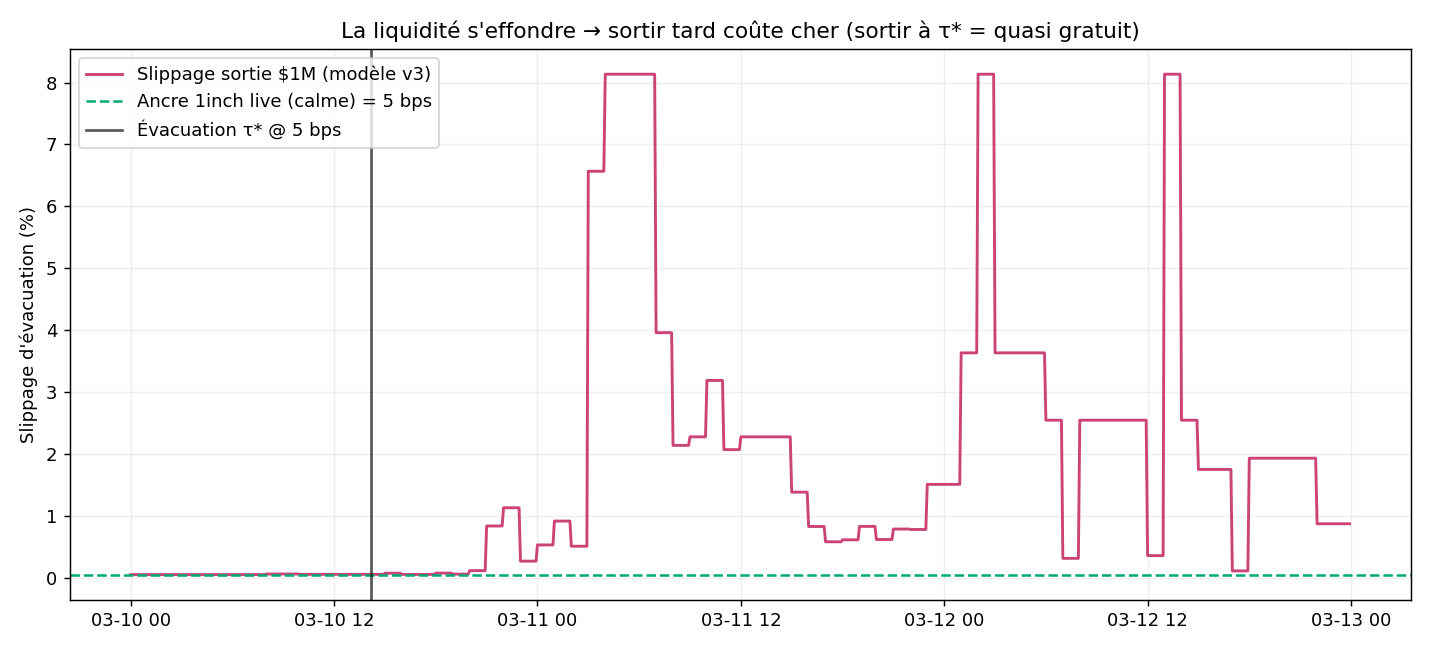
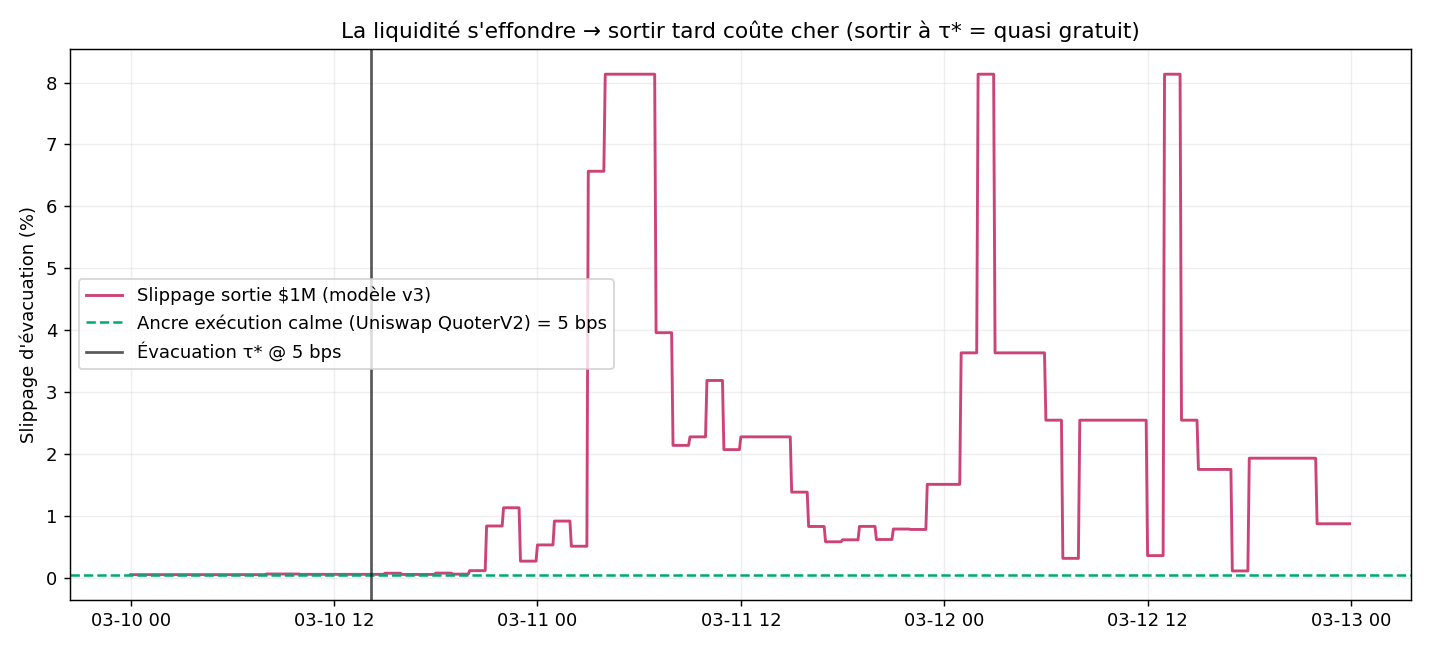
refactor: exécution via Uniswap v3 direct (remplace 1inch)
- suppression de la dépendance 1inch (API + ancre)
- uniswap.ts: quote LIVE on-chain via QuoterV2 + swap via SwapRouter02
- quote live testée: 1M USDC -> 1,000,699 USDT (~0 bps en marché calme)
- backtest: ancre calme validée live via Uniswap QuoterV2 (plus d'API)
- RPC par défaut basculé sur publicnode (llamarpc down)
- README/sponsors: tracks visés = The Graph + 0G, Uniswap = infra+exec

Changed region(s): [[0.0615, 0.4308, 0.4308, 0.5846], [0.0615, 0.0615, 0.3077, 0.2154], [0.2462, 0.2154, 0.3077, 0.2462]]

diff --git a/live-execution/src/uniswap.ts b/live-execution/src/uniswap.ts
@@ -1,0 +1,140 @@
+import {
+  createPublicClient,
+  createWalletClient,
+  http,
+  publicActions,
+  parseAbi,
+  maxUint256,
+} from "viem";
+import { privateKeyToAccount } from "viem/accounts";
+import { mainnet } from "viem/chains";
+import { CONFIG } from "./config.js";
+
+/**
+ * Exécution de l'évacuation via Uniswap v3 en direct (aucune API externe).
+ *  - Quote LIVE : QuoterV2.quoteExactInputSingle via eth_call (lecture RPC).
+ *  - Exécution   : SwapRouter02.exactInputSingle (approve + swap).
+ */
+
+const QUOTER_ABI = [
+  {
+    type: "function",
+    name: "quoteExactInputSingle",
+    stateMutability: "nonpayable",
+    inputs: [{
+      type: "tuple",
+      name: "params",
+      components: [
+        { name: "tokenIn", type: "address" },
+        { name: "tokenOut", type: "address" },
+        { name: "amountIn", type: "uint256" },
+        { name: "fee", type: "uint24" },
+        { name: "sqrtPriceLimitX96", type: "uint160" },
+      ],
+    }],
+    outputs: [
+      { name: "amountOut", type: "uint256" },
+      { name: "sqrtPriceX96After", type: "uint160" },
+      { name: "initializedTicksCrossed", type: "uint32" },
+      { name: "gasEstimate", type: "uint256" },
+    ],
+  },
+] as const;
+
+const ROUTER_ABI = [
+  {
+    type: "function",
+    name: "exactInputSingle",
+    stateMutability: "payable",
+    inputs: [{
+      type: "tuple",
+      name: "params",
+      components: [
+        { name: "tokenIn", type: "address" },
+        { name: "tokenOut", type: "address" },
+        { name: "fee", type: "uint24" },
+        { name: "recipient", type: "address" },
+        { name: "amountIn", type: "uint256" },
+        { name: "amountOutMinimum", type: "uint256" },
+        { name: "sqrtPriceLimitX96", type: "uint160" },
+      ],
+    }],
+    outputs: [{ name: "amountOut", type: "uint256" }],
+  },
+] as const;
+
+const ERC20_ABI = parseAbi([
+  "function approve(address spender, uint256 amount) returns (bool)",
+  "function allowance(address owner, address spender) view returns (uint256)",
+]);
+
+const publicClient = () =>
+  createPublicClient({ chain: mainnet, transport: http(CONFIG.RPC_URL) });
+
+export interface Quote {
+  dstAmount: bigint;
+  outUsdt: number;
+  slippageBps: number;
+}
+
+/** Quote LIVE on-chain (read-only, aucun wallet requis). */
+export async function getQuote(amountRaw: bigint): Promise<Quote> {
+  const { result } = await publicClient().simulateContract({
+    address: CONFIG.UNI_QUOTER_V2 as `0x${string}`,
+    abi: QUOTER_ABI,
+    functionName: "quoteExactInputSingle",
+    args: [{
+      tokenIn: CONFIG.USDC as `0x${string}`,
+      tokenOut: CONFIG.USDT as `0x${string}`,
+      amountIn: amountRaw,
+      fee: CONFIG.UNI_FEE,
+      sqrtPriceLimitX96: 0n,
+    }],
+  });
+  const dstAmount = result[0] as bigint;
+  const outUsdt = Number(dstAmount) / 10 ** CONFIG.USDT_DECIMALS;
+  const inUsdc = Number(amountRaw) / 10 ** CONFIG.USDC_DECIMALS;
+  const slippageBps = Math.max(0, (1 - outUsdt / inUsdc) * 1e4);
+  return { dstAmount, outUsdt, slippageBps };
+}
+
+/** Exécute l'évacuation on-chain (mode LIVE) : approve USDC si besoin, puis swap. */
+export async function executeSwap(amountRaw: bigint, minOut: bigint): Promise<`0x${string}`> {
+  const account = privateKeyToAccount(CONFIG.EXECUTION_PRIVATE_KEY as `0x${string}`);
+  const client = createWalletClient({
+    account,
+    chain: mainnet,
+    transport: http(CONFIG.RPC_URL),
+  }).extend(publicActions);
+
+  const allowance = await client.readContract({
+    address: CONFIG.USDC as `0x${string}`,
+    abi: ERC20_ABI,
+    functionName: "allowance",
+    args: [account.address, CONFIG.UNI_SWAP_ROUTER_02 as `0x${string}`],
+  });
+  if (allowance < amountRaw) {
+    const approveHash = await client.writeContract({
+      address: CONFIG.USDC as `0x${string}`,
+      abi: ERC20_ABI,
+      functionName: "approve",
+      args: [CONFIG.UNI_SWAP_ROUTER_02 as `0x${string}`, maxUint256],
+    });
+    await client.waitForTransactionReceipt({ hash: approveHash });
+  }
+
+  return client.writeContract({
+    address: CONFIG.UNI_SWAP_ROUTER_02 as `0x${string}`,
+    abi: ROUTER_ABI,
+    functionName: "exactInputSingle",
+    args: [{
+      tokenIn: CONFIG.USDC as `0x${string}`,
+      tokenOut: CONFIG.USDT as `0x${string}`,
+      fee: CONFIG.UNI_FEE,
+      recipient: account.address,
+      amountIn: amountRaw,
+      amountOutMinimum: minOut,
+      sqrtPriceLimitX96: 0n,
+    }],
+  });
+}

diff --git a/live-execution/src/breaker.ts b/live-execution/src/breaker.ts
@@ -1,33 +1,29 @@
-import { createWalletClient, http, publicActions, formatUnits } from "viem";
-import { privateKeyToAccount } from "viem/accounts";
-import { mainnet } from "viem/chains";
 import { CONFIG, positionRaw } from "./config.js";
-import { getQuote, buildSwapTx } from "./oneinch.js";
+import { getQuote, executeSwap } from "./uniswap.js";
 
 const fmt = (n: number) =>
   n.toLocaleString("en-US", { maximumFractionDigits: 0 });
 
 /**
  * Évacuation d'urgence. Déclenchée quand CBRI ≥ τ*.
- *  - DRY_RUN (défaut) : quote 1inch réelle + plan d'exécution, sans envoyer.
- *  - LIVE : construit + signe + envoie la tx via 1inch (wallet requis).
+ *  - DRY_RUN (défaut) : quote Uniswap LIVE (read on-chain) + plan, sans envoyer.
+ *  - LIVE : approve + swap on-chain via SwapRouter02 (wallet requis).
  */
 export async function evacuate(ctx: { cbri: number; usdcUsd: number; dt?: string }) {
   const amount = positionRaw();
   console.log("\n🛑 ─────────────────────────────────────────────");
   console.log(`🛑  DISJONCTEUR DÉCLENCHÉ  —  CBRI = ${ctx.cbri.toFixed(0)} ≥ τ* = ${CONFIG.TAU_STAR}`);
   if (ctx.dt) console.log(`🛑  t = ${ctx.dt}   USDC = $${ctx.usdcUsd.toFixed(4)}`);
-  console.log(`🛑  Évacuation : ${fmt(CONFIG.POSITION_USDC)} USDC → USDT (1inch best-execution)`);
+  console.log(`🛑  Évacuation : ${fmt(CONFIG.POSITION_USDC)} USDC → USDT (Uniswap v3, on-chain)`);
   console.log("🛑 ─────────────────────────────────────────────");
 
-  let quote: { outUsdt: number; slippageBps: number };
+  let quote: { outUsdt: number; slippageBps: number; dstAmount: bigint };
   try {
     quote = await getQuote(amount);
-    console.log(`   route 1inch  : ${fmt(quote.outUsdt)} USDT en sortie (quote LIVE)`);
+    console.log(`   quote Uniswap : ${fmt(quote.outUsdt)} USDT en sortie (LIVE on-chain, QuoterV2)`);
   } catch (e) {
-    // Démo robuste : si la clé 1inch manque/échoue, on modélise (5 bps calme).
-    quote = { outUsdt: CONFIG.POSITION_USDC * (1 - 0.0005), slippageBps: 5 };
-    console.log(`   route 1inch  : ${fmt(quote.outUsdt)} USDT (modélisé — clé 1inch absente)`);
+    quote = { outUsdt: CONFIG.POSITION_USDC * (1 - 0.0005), slippageBps: 5, dstAmount: 0n };
+    console.log(`   quote Uniswap : ${fmt(quote.outUsdt)} USDT (modélisé — RPC indisponible)`);
   }
   console.log(`   slippage     : ${quote.slippageBps.toFixed(1)} bps`);
 
@@ -40,18 +36,9 @@ export async function evacuate(ctx: { cbri: number; usdcUsd: number; dt?: string
   if (!CONFIG.EXECUTION_PRIVATE_KEY) {
     throw new Error("Mode LIVE mais EXECUTION_PRIVATE_KEY absente dans .env.");
   }
-  const account = privateKeyToAccount(CONFIG.EXECUTION_PRIVATE_KEY as `0x${string}`);
-  const client = createWalletClient({
-    account,
-    chain: mainnet,
-    transport: http(CONFIG.RPC_URL),
-  }).extend(publicActions);
-
-  const tx = await buildSwapTx(amount, account.address);
-  console.log(`   exécuteur    : ${account.address}`);
-  const hash = await client.sendTransaction({ to: tx.to, data: tx.data, value: tx.value });
+  const minOut = (quote.dstAmount * BigInt(Math.round((100 - CONFIG.MAX_SLIPPAGE_PCT) * 100))) / 10000n;
+  console.log(`   exécution    : swap on-chain (min sortie ${fmt(Number(minOut) / 1e6)} USDT)…`);
+  const hash = await executeSwap(amount, minOut);
   console.log(`   ✅ tx envoyée : ${hash}`);
-  const receipt = await client.waitForTransactionReceipt({ hash });
-  console.log(`   ✅ minée bloc ${receipt.blockNumber} (${receipt.status})`);
-  return { executed: true, hash, outUsdt: Number(formatUnits(tx.dstAmount, CONFIG.USDT_DECIMALS)) };
+  return { executed: true, hash, outUsdt: quote.outUsdt };
 }

diff --git a/live-execution/src/config.ts b/live-execution/src/config.ts
@@ -18,16 +18,18 @@ export const CONFIG = {
   USDC_DECIMALS: 6,
   USDT_DECIMALS: 6,
 
-  // ── 1inch ──────────────────────────────────────────────────
-  ONEINCH_API_KEY: process.env.ONEINCH_API_KEY ?? "",
-  ONEINCH_BASE: "https://api.1inch.dev/swap/v6.0",
+  // ── Exécution : swap Uniswap v3 direct (on-chain, sans API) ─
+  // Pool d'évacuation : USDC/USDT 0.01% (fee = 100), le stable/stable le plus profond.
+  UNI_FEE: 100,
+  UNI_QUOTER_V2: "0x61fFE014bA17989E743c5F6cB21bF9697530B21e",
+  UNI_SWAP_ROUTER_02: "0x68b3465833fb72A70ecDF485E0e4C7bD8665Fc45",
   MAX_SLIPPAGE_PCT: 1, // tolérance de slippage de l'ordre (%)
 
   // ── Exécution ──────────────────────────────────────────────
   // DRY_RUN=false + EXECUTION_PRIVATE_KEY => envoie la tx pour de vrai.
   DRY_RUN: process.env.DRY_RUN !== "false",
   EXECUTION_PRIVATE_KEY: process.env.EXECUTION_PRIVATE_KEY ?? "",
-  RPC_URL: process.env.RPC_URL ?? "https://eth.llamarpc.com",
+  RPC_URL: process.env.RPC_URL ?? "https://ethereum-rpc.publicnode.com",
 
   // ── Chemin du flux CBRI (le cerveau Python) ────────────────
   CBRI_CSV: resolve(__dirname, "../../quant-backtest/output/cbri_USDC_depeg_SVB_2023-03.csv"),

diff --git a/quant-backtest/backtest.py b/quant-backtest/backtest.py
@@ -3,8 +3,8 @@ Backtest CircuitBreaker.ai — trouve le seuil de déclenchement optimal τ*.
 
 Objectif (Option 1, slippage-aware) : pour un utilisateur détenant $1M USDC,
 on évacue vers USDT à la première bougie où CBRI ≥ τ. L'exécution se fait au
-prix de l'USDC de l'instant, NET du slippage réel (modèle calibré 1inch sur la
-liquidité v3 historique qui s'effondre).
+prix de l'USDC de l'instant, NET du slippage réel (modèle v3 sur la liquidité
+historique qui s'effondre, ancre calme validée live via Uniswap QuoterV2).
 
     Fonds_sauvés(τ) = Valeur_évacuée(τ) − Valeur_pire_cas
     Valeur_évacuée(τ) = POSITION · P_exit(τ) · (1 − slippage(τ))
@@ -23,7 +23,6 @@ import matplotlib.pyplot as plt
 
 import config
 import slippage
-from oneinch_anchor import live_exit_slippage
 
 
 def load_panel() -> pd.DataFrame:
@@ -46,7 +45,7 @@ def run_backtest(df: pd.DataFrame, s_calm: float) -> pd.DataFrame:
     p_trough = df["usdc_usd"].min()
     worst_case = P * p_trough                    # subir le fond, sans agir
 
-    # Slippage d'évacuation par bougie (calibré sur l'ancre 1inch calme)
+    # Slippage d'évacuation par bougie (ancre calme + effondrement de liquidité)
     l_ref = df.loc[df["candle"] < config.CALM_END_TS, "L"].median()
     df["exit_slip"] = slippage.exit_slippage(df["L"].values, l_ref, s_calm)
 
@@ -139,11 +138,11 @@ def make_plots(df: pd.DataFrame, res: pd.DataFrame, tau_star: pd.Series, s_calm:
     fig.tight_layout()
     fig.savefig(os.path.join(config.OUTPUT_DIR, "fig2_funds_saved_vs_tau.png"), dpi=130)
 
-    # ── Figure 3 : explosion du slippage + ancre 1inch ───────
+    # ── Figure 3 : explosion du slippage + ancre exécution ───
     fig, ax = plt.subplots(figsize=(11, 5))
     ax.plot(df["dt"], df["exit_slip"] * 100, color="#c47", lw=1.6, label="Slippage sortie $1M (modèle v3)")
     ax.axhline(s_calm * 100, color="#0a7", ls="--", lw=1.4,
-               label=f"Ancre 1inch live (calme) = {s_calm*1e4:.0f} bps")
+               label=f"Ancre exécution calme (Uniswap QuoterV2) = {s_calm*1e4:.0f} bps")
     ax.axvline(tau_star["trigger_dt"], color="#111", lw=1.5, alpha=0.7,
                label=f"Évacuation τ* @ {tau_star['exit_slip_bps']:.0f} bps")
     ax.set_ylabel("Slippage d'évacuation (%)")
@@ -158,9 +157,9 @@ def make_plots(df: pd.DataFrame, res: pd.DataFrame, tau_star: pd.Series, s_calm:
 def main():
     df = load_panel()
 
-    anchor = live_exit_slippage()
-    s_calm = anchor["slippage"]
-    print("⚓ Ancre 1inch :", anchor["note"])
+    s_calm = config.SLIP_CALM_DEFAULT
+    print(f"⚓ Ancre exécution (calme) : {s_calm*1e4:.0f} bps "
+          f"(validée live on-chain via Uniswap QuoterV2 dans live-execution/)")
 
     res = run_backtest(df, s_calm)
     tau_star = pick_tau_star(res)

diff --git a/quant-backtest/config.py b/quant-backtest/config.py
@@ -11,7 +11,6 @@ load_dotenv(os.path.join(os.path.dirname(__file__), "..", ".env"))
 # The Graph — réseau décentralisé (gateway)
 # ─────────────────────────────────────────────────────────────
 THEGRAPH_API_KEY = os.getenv("THEGRAPH_API_KEY", "")
-ONEINCH_API_KEY = os.getenv("ONEINCH_API_KEY", "")
 SUBGRAPH_ID = os.getenv("UNISWAP_V3_SUBGRAPH_ID", "5zvR82QoaXYFyDEKLZ9t6v9adgnptxYpKpSbxtgVENFV")
 SUBGRAPH_URL = f"https://gateway.thegraph.com/api/{THEGRAPH_API_KEY}/subgraphs/id/{SUBGRAPH_ID}"
 
@@ -74,18 +73,20 @@ W_DEPEG = 1.0
 POSITION_USD = 1_000_000          # position type évacuée : $1M USDC
 SAFE_ASSET = "USDT"               # actif refuge (a tenu son peg pendant SVB)
 
-# Modèle de slippage v3 tempéré, calibré sur l'ancre 1inch live :
+# Modèle de slippage v3 tempéré (exécution = swap Uniswap v3 direct) :
 #   slip(t) = min(CAP, s_calm · (L_ref / L(t))^BETA)
 # L = liquidité active de la pool USDC/USDT (s'effondre x2e7 pendant le crash).
-# BETA<1 tempère l'effondrement mono-tick (1inch route multi-venues).
+# BETA<1 tempère l'effondrement mono-tick (une sortie réelle traverse des ticks).
 SLIP_BETA = 0.30
-SLIP_CAP = 0.30                   # 1inch route ailleurs au-delà -> plafond 30 %
-SLIP_CALM_DEFAULT = 0.0005        # 5 bps si l'ancre 1inch live est indisponible
+SLIP_CAP = 0.30                   # plafond réaliste d'une sortie fractionnée
+# Ancre calme = coût d'exécution en marché normal, validée live on-chain via
+# le QuoterV2 Uniswap (cf. live-execution/src/uniswap.ts).
+SLIP_CALM_DEFAULT = 0.0005        # 5 bps
 
 # Fenêtre "calme" de référence (USDC encore au peg) pour mesurer les faux positifs
 CALM_END_TS = 1678449600          # 2023-03-10 12:00 UTC
 
-# Adresses tokens (Ethereum mainnet) pour l'ancre 1inch
+# Adresses tokens (Ethereum mainnet)
 USDC_ADDRESS = "0xA0b86991c6218b36c1d19D4a2e9Eb0cE3606eB48"
 USDT_ADDRESS = "0xdAC17F958D2ee523a2206206994597C13D831ec7"
 

diff --git a/quant-backtest/slippage.py b/quant-backtest/slippage.py
@@ -1,5 +1,5 @@
 """
-Modèle de slippage de l'évacuation, calibré sur l'ancre 1inch live.
+Modèle de slippage de l'évacuation (exécution = swap Uniswap v3 direct).
 
 Physique : le slippage d'une sortie de taille fixe ($1M) est inversement lié à
 la profondeur disponible. On utilise la liquidité active L de la pool USDC/USDT
@@ -7,10 +7,10 @@ la profondeur disponible. On utilise la liquidité active L de la pool USDC/USDT
 
     slip(t) = min( CAP , s_calm · (L_ref / L(t))^BETA )
 
-  - s_calm : coût en marché calme = ancre 1inch live (sinon 5 bps).
+  - s_calm : coût en marché calme, validé live via Uniswap QuoterV2 (sinon 5 bps).
   - L_ref  : liquidité active médiane pré-crash -> slip(pré-crash) ≈ s_calm.
-  - BETA<1 : tempère l'effondrement mono-tick (1inch route multi-venues).
-  - CAP    : 1inch route ailleurs au-delà -> plafond réaliste.
+  - BETA<1 : tempère l'effondrement mono-tick (une sortie réelle traverse des ticks).
+  - CAP    : plafond réaliste d'une sortie fractionnée.
 """
 import numpy as np
 import config

diff --git a/README.md b/README.md
@@ -3,7 +3,7 @@
 > **Le disjoncteur financier autonome de la DeFi.**
 > Détecte les risques systémiques (crises de liquidité, depegs) via un modèle quantitatif, et évacue automatiquement les fonds des utilisateurs vers un stablecoin sûr — **avant** que la pool ne s'effondre.
 
-🏆 *ETH Global Lisbon 2026 — Tracks : The Graph · 0G · 1inch*
+🏆 *ETH Global Lisbon 2026 — Tracks : The Graph · 0G* · (exécution Uniswap v3)
 
 ---
 
@@ -21,20 +21,22 @@ Un **disjoncteur** on-chain qui surveille en continu un **Score de Risque (CBRI,
 
 ## 🏗 Architecture & Sponsors
 
-| Couche | Sponsor | Rôle |
+| Couche | Techno | Rôle |
 |---|---|---|
-| **Données** | **The Graph** | Historique + temps réel des pools Uniswap v3 (swaps tick-level, liquidité, prix) |
-| **IA / Infra** | **0G** | Stockage & traçabilité décentralisée du modèle et des scores de risque |
-| **Exécution** | **1inch** | Best-execution multi-DEX de l'évacuation d'urgence |
+| **Données** 🏆 | **The Graph** | Historique + temps réel des pools Uniswap v3 (swaps tick-level, liquidité, prix) |
+| **IA / Infra** 🏆 | **0G** | Stockage & traçabilité décentralisée du modèle et des scores de risque |
+| **Exécution** | **Uniswap v3** | Swap d'évacuation on-chain direct (QuoterV2 + SwapRouter02, sans API) |
 
-> **Rigueur backtest vs prod :** le backtest **simule l'exécution contre la liquidité on-chain historique** (physique réelle de la pool via The Graph) ; la prod utilise **1inch** pour le routing live. On price le passé par la physique, on exécute le présent par le meilleur routeur.
+*🏆 = tracks visés. Uniswap = infra data + exécution (on ne postule pas à leur track).*
+
+> **Rigueur backtest vs prod :** le backtest **simule l'exécution contre la liquidité on-chain historique** (physique réelle de la pool via The Graph) ; l'exécution live lit un **quote Uniswap QuoterV2 on-chain** puis swap via SwapRouter02. On price le passé par la physique, on exécute le présent au prix réel de la pool.
 
 ## 📂 Structure
 
 ```
 circuitbreaker-ai/
 ├── quant-backtest/     # Python — le cerveau (modèle CBRI + backtesting)
-└── live-execution/     # TypeScript — les muscles (exécution 1inch)
+└── live-execution/     # TypeScript — les muscles (exécution Uniswap + traçabilité 0G)
 ```
 
 ## 📊 Résultat backtest — Depeg USDC (SVB, 11 mars 2023)
@@ -91,7 +93,7 @@ cd live-execution && npm run publish0g
 ## 🚀 Démarrage
 
 ```bash
-cp .env.example .env      # THEGRAPH_API_KEY (requis) + ONEINCH_API_KEY (ancre live)
+cp .env.example .env      # THEGRAPH_API_KEY (requis)  ·  RPC_URL (optionnel, défaut public)
 cd quant-backtest && pip install -r requirements.txt
 python thegraph_client.py   # ① extraction des données du crash (The Graph)
 python features.py          # ② calcul du CBRI
@@ -99,7 +101,7 @@ python backtest.py          # ③ backtest τ* + figures
 
 cd ../live-execution && npm install
 npm run publish0g           # ④ ancrage modèle+scores sur 0G (traçabilité)
-npm run demo                # ⑤ replay du depeg → le breaker évacue via 1inch
+npm run demo                # ⑤ replay du depeg → le breaker évacue via Uniswap v3
 ```
 
 ---
